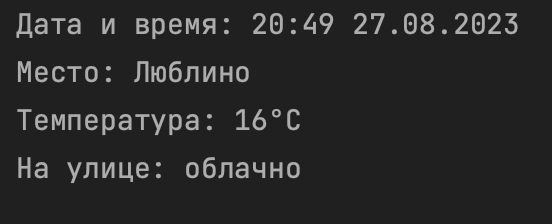
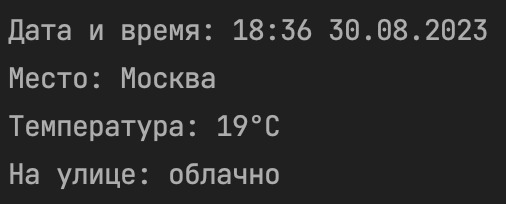
- Final fixes

diff --git a/main.py b/main.py
@@ -1,12 +1,23 @@
 from services.coordinates import get_coordinates
-from services.printing import pretty_print_weather
+from services.formatter import format_weather
 from services.weather_api import get_weather_by_coordinates
+from utils.exceptions import CantGetCoordinates, ApiServiceError
 
 
 def main() -> None:
-    coordinates = get_coordinates()
-    weather = get_weather_by_coordinates(coordinates=coordinates)
-    pretty_print_weather(weather=weather)
+    try:
+        coordinates = get_coordinates()
+    except CantGetCoordinates:
+        print("Не удалось получить координаты")
+        exit(1)
+
+    try:
+        weather = get_weather_by_coordinates(coordinates=coordinates)
+    except ApiServiceError:
+        print(f"Не удалось получить погоду по координатам {coordinates}")
+        exit(1)
+
+    print(format_weather(weather=weather))
 
 
 if __name__ == '__main__':

diff --git a/tests/services/test_formatter.py b/tests/services/test_formatter.py
@@ -1,9 +1,9 @@
-from services.printing import pretty_print_weather
+from services.formatter import format_weather
 from utils.enums import WeatherTitle
 from utils.schemas import Weather
 
 
-def test_pretty_print_weather(capfd):
+def test_pretty_print_weather():
     weather = Weather(
         temperature=20,
         weather_title=WeatherTitle.clear,
@@ -15,12 +15,6 @@ def test_pretty_print_weather(capfd):
         f"Температура: {weather.temperature}°C\n"
         f"На улице: {weather.weather_title.value}"
     )
-    target_output = target_output.strip()
+    weather_as_str = format_weather(weather=weather)
 
-    pretty_print_weather(weather=weather)
-    out, err = capfd.readouterr()
-    out, err = out.strip(), err.strip()
-
-    assert len(err) == 0
-    assert len(out) > 0
-    assert out == target_output
+    assert weather_as_str == target_output

diff --git a/services/formatter.py b/services/formatter.py
@@ -1,0 +1,10 @@
+from utils.schemas import Weather
+
+
+def format_weather(*, weather: Weather) -> str:
+    return (
+        f"Дата и время: {weather.now_datetime}\n"
+        f"Место: {weather.geo_name}\n"
+        f"Температура: {weather.temperature}°C\n"
+        f"На улице: {weather.weather_title.value}"
+    )

diff --git a/services/coordinates.py b/services/coordinates.py
@@ -17,8 +17,8 @@ class CoordinatesSourceProtocol(Protocol):
 
 
 class PlugSource(CoordinatesSourceProtocol):
-    latitude = 55.673768
-    longitude = 37.760422
+    latitude = 55.755864
+    longitude = 37.617698
 
     @classmethod
     def get_coordinates(cls) -> Coordinates:

diff --git a/services/__init__.py b/services/__init__.py
@@ -1,1 +1,1 @@
-from . import coordinates, printing, weather_api
+from . import coordinates, formatter, weather_api

diff --git a/README.md b/README.md
@@ -1,6 +1,6 @@
 # weather_cli
 
-Execute `python3 main.py` command in root dir. 
+Execute `python3 main.py` or `python main.py` command in root project dir. 
 
 Console output:
 
